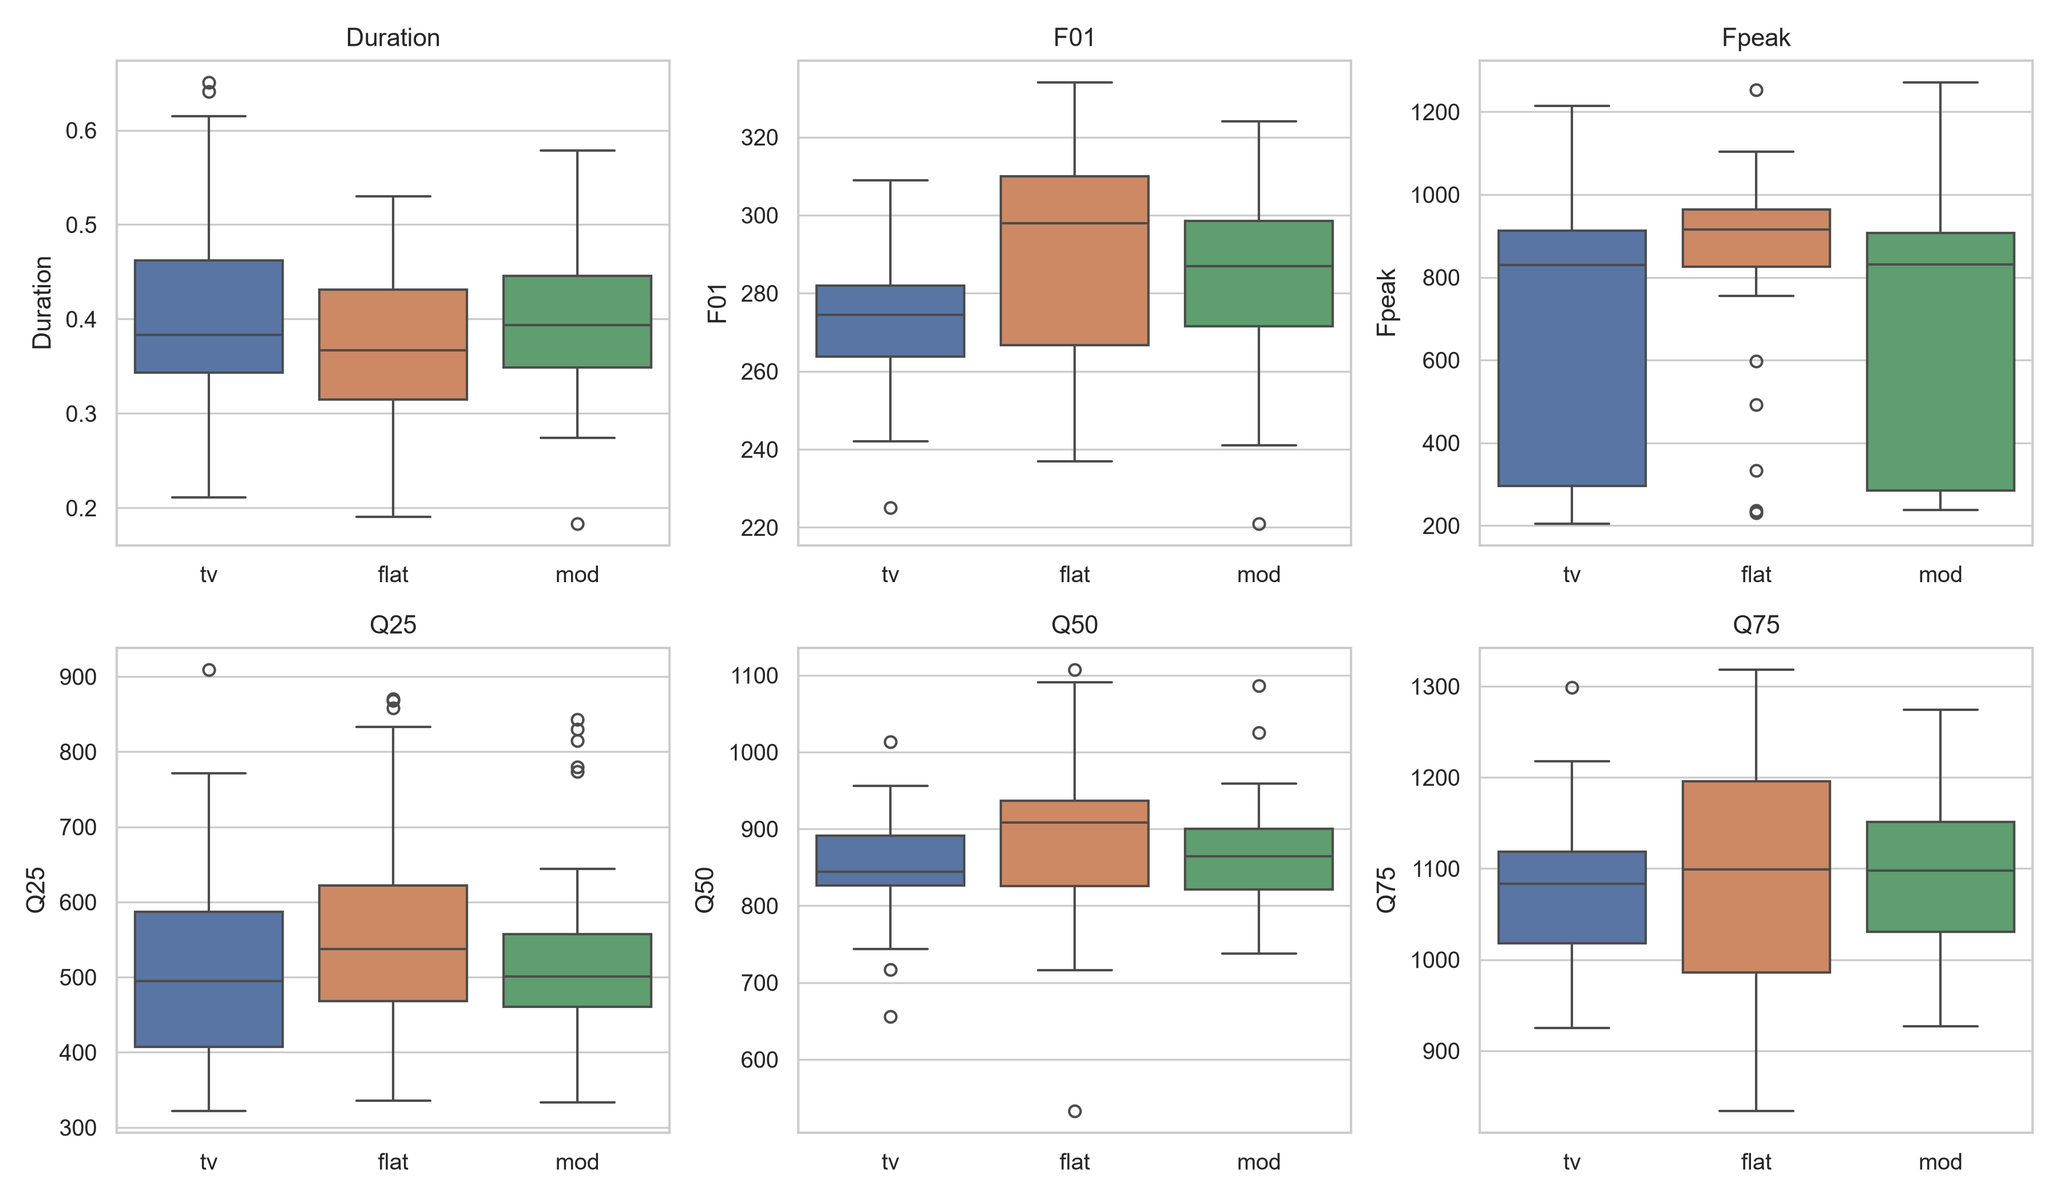
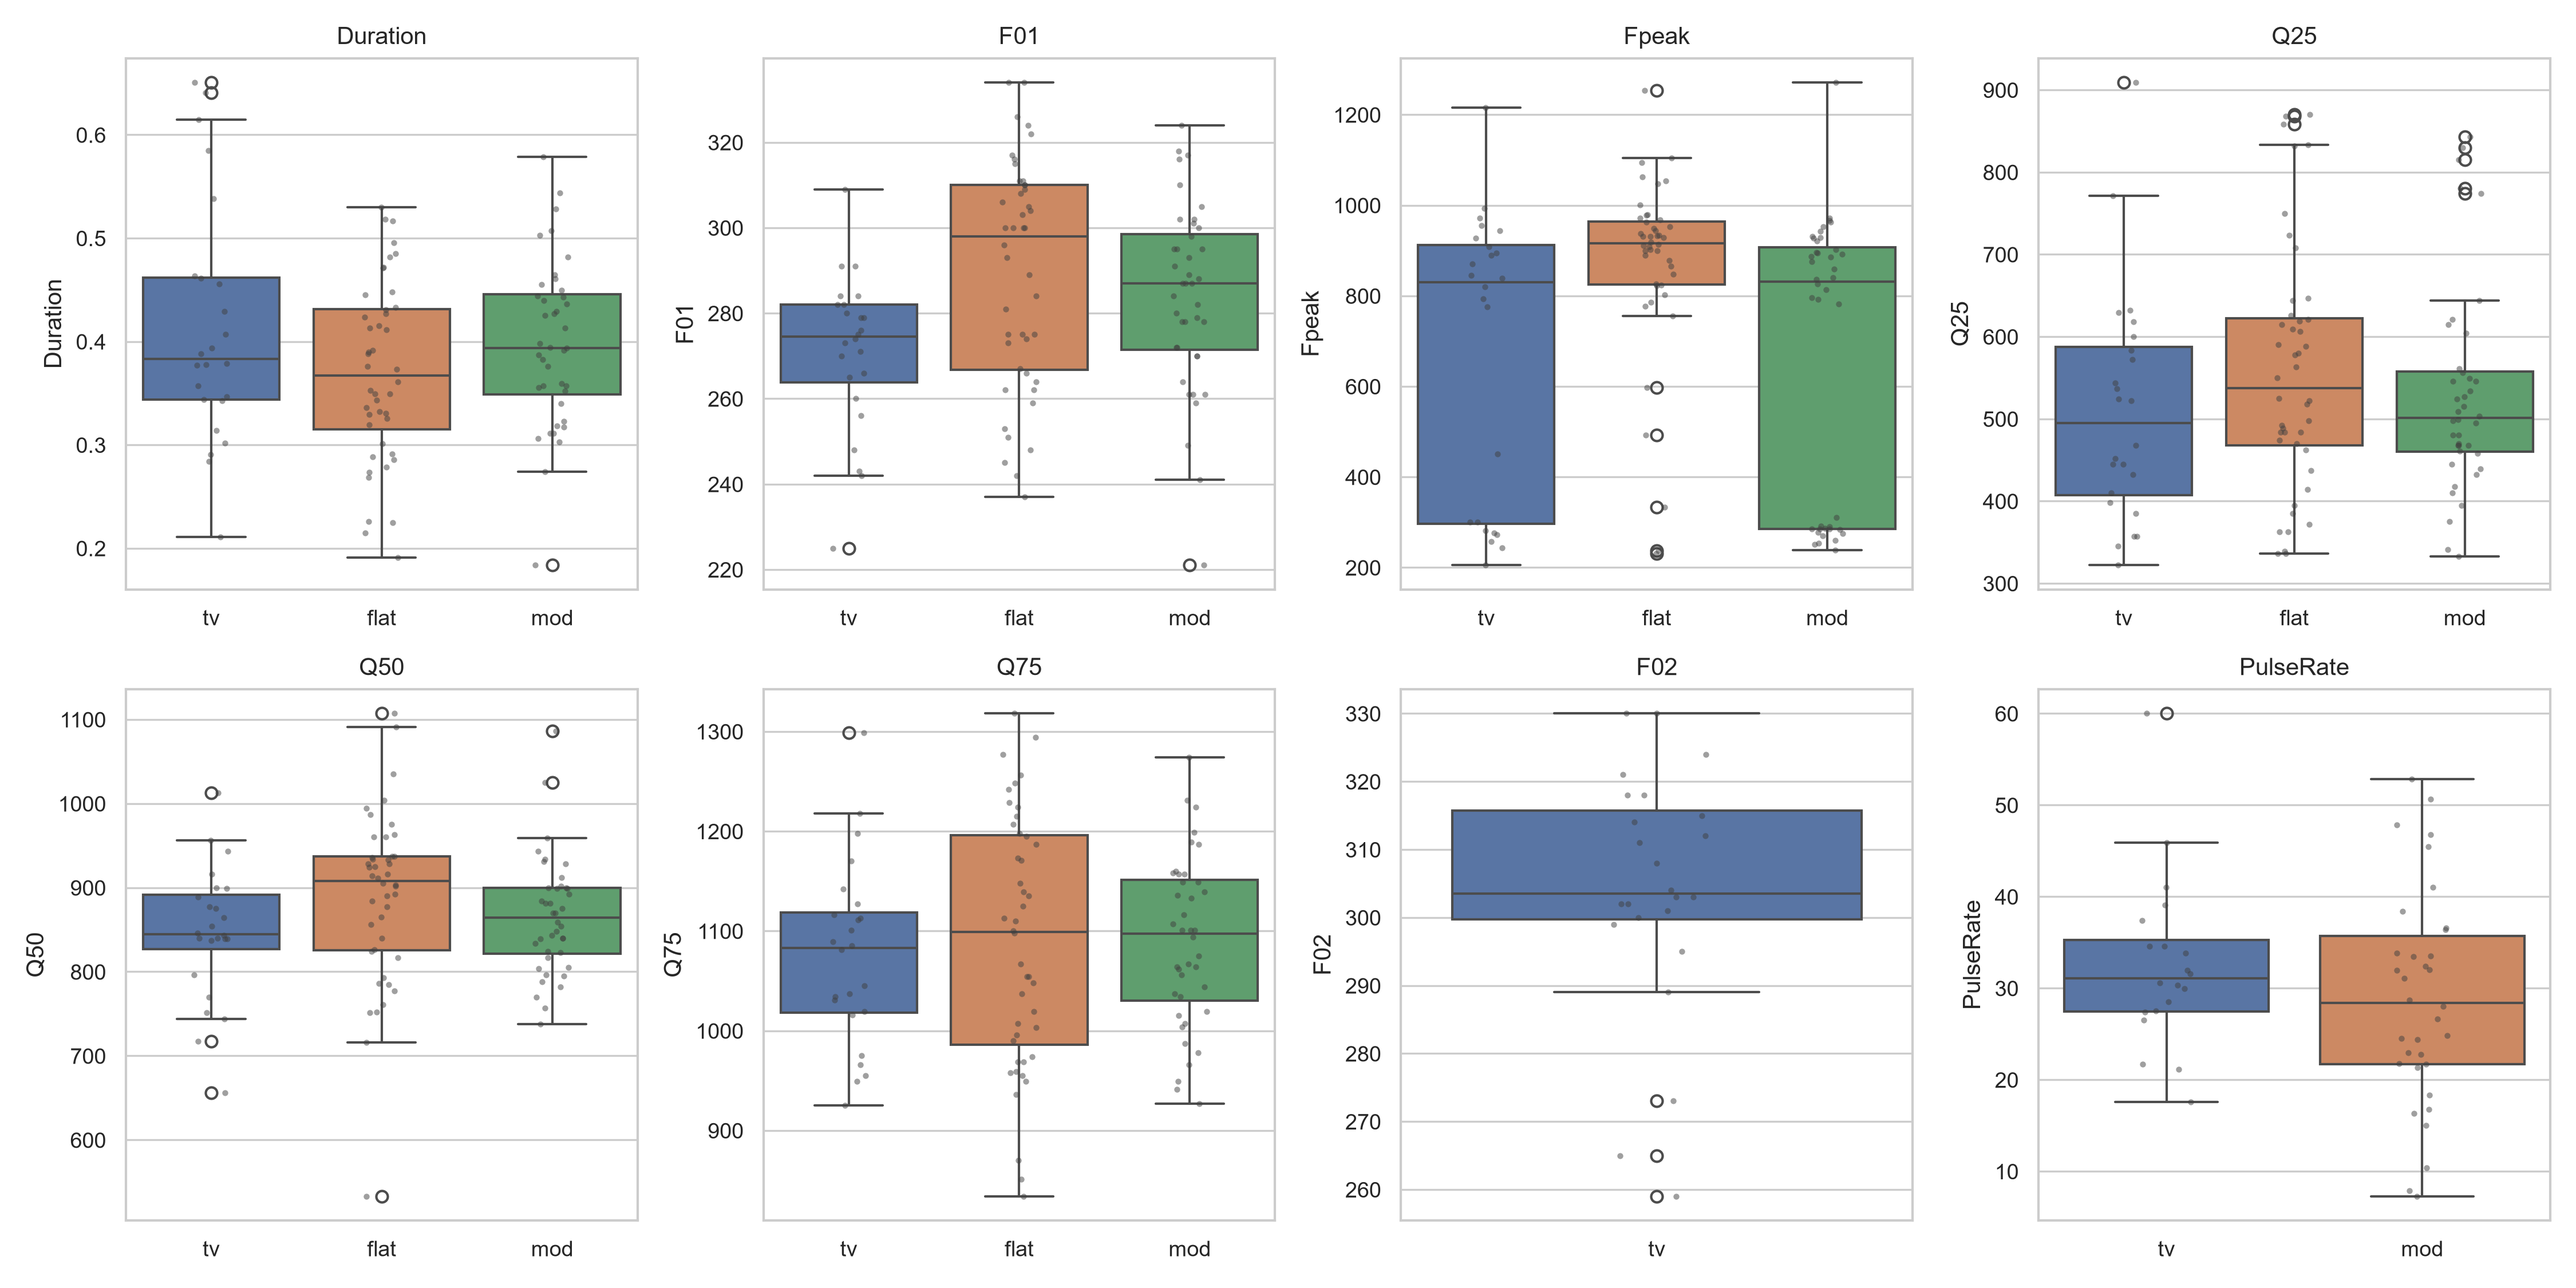
feat(q1): add KS test, PulseRate test, Track B classifier, PCA biplot and confusion matrices

diff --git a/src/q1_acoustics_classification.py b/src/q1_acoustics_classification.py
@@ -7,9 +7,11 @@ import numpy as np
 import pandas as pd
 import seaborn as sns
 from scipy import stats
-from sklearn.ensemble import RandomForestClassifier
+from sklearn.decomposition import PCA
+from sklearn.ensemble import HistGradientBoostingClassifier, RandomForestClassifier
 from sklearn.linear_model import LogisticRegression
-from sklearn.model_selection import StratifiedKFold, cross_validate
+from sklearn.metrics import ConfusionMatrixDisplay, confusion_matrix
+from sklearn.model_selection import StratifiedKFold, cross_val_predict, cross_validate
 from sklearn.pipeline import make_pipeline
 from sklearn.preprocessing import StandardScaler
 from sklearn.svm import SVC
@@ -41,78 +43,170 @@ def compute_descriptive_stats(df: pd.DataFrame) -> pd.DataFrame:
     return pd.DataFrame(rows)
 
 
-def run_nonparametric_tests(df: pd.DataFrame) -> pd.DataFrame:
-    """Run Kruskal-Wallis H tests and Holm-corrected pairwise Mann-Whitney U tests."""
+def run_nonparametric_tests(df: pd.DataFrame) -> tuple[pd.DataFrame, pd.DataFrame]:
+    """Run Kruskal-Wallis H, Holm-corrected Mann-Whitney U, and Holm-corrected KS tests."""
     call_types = sorted(df["CallType"].unique())
+    pairs = list(combinations(call_types, 2))
     rows = []
+
     for col in COMMON_FEATURES:
         groups = [df.loc[df["CallType"] == ct, col].dropna().values for ct in call_types]
         kw_stat, kw_p = stats.kruskal(*groups)
 
-        pairs = list(combinations(call_types, 2))
-        raw_pvals = []
-        u_stats = []
+        mwu_raw, ks_raw = [], []
         for c1, c2 in pairs:
             g1 = df.loc[df["CallType"] == c1, col].dropna().values
             g2 = df.loc[df["CallType"] == c2, col].dropna().values
-            u_stat, p_val = stats.mannwhitneyu(g1, g2, alternative="two-sided")
-            u_stats.append(u_stat)
-            raw_pvals.append(p_val)
+            _, p_mwu = stats.mannwhitneyu(g1, g2, alternative="two-sided")
+            _, p_ks = stats.ks_2samp(g1, g2)
+            mwu_raw.append(p_mwu)
+            ks_raw.append(p_ks)
 
-        _, adj_pvals, _, _ = multipletests(raw_pvals, method="holm")
+        _, mwu_adj, _, _ = multipletests(mwu_raw, method="holm")
+        _, ks_adj, _, _ = multipletests(ks_raw, method="holm")
+
         row = {"Feature": col, "KW_H": kw_stat, "KW_p": kw_p}
-        for (c1, c2), adj_p in zip(pairs, adj_pvals):
-            row[f"MWU_{c1}_vs_{c2}_holm_p"] = adj_p
+        for (c1, c2), p_m, p_k in zip(pairs, mwu_adj, ks_adj):
+            row[f"MWU_{c1}_vs_{c2}_holm_p"] = p_m
+            row[f"KS_{c1}_vs_{c2}_holm_p"] = p_k
         rows.append(row)
-    return pd.DataFrame(rows)
+
+    # Also test PulseRate between mod and tv (flat has N=0)
+    pr_mod = df.loc[df["CallType"] == "mod", "PulseRate"].dropna().values
+    pr_tv = df.loc[df["CallType"] == "tv", "PulseRate"].dropna().values
+    u_pr, p_pr_mwu = stats.mannwhitneyu(pr_mod, pr_tv, alternative="two-sided")
+    d_pr, p_pr_ks = stats.ks_2samp(pr_mod, pr_tv)
+    pr_df = pd.DataFrame(
+        [
+            {
+                "Feature": "PulseRate (mod vs tv)",
+                "N_mod": len(pr_mod),
+                "N_tv": len(pr_tv),
+                "MWU_U": u_pr,
+                "MWU_p": p_pr_mwu,
+                "KS_D": d_pr,
+                "KS_p": p_pr_ks,
+            }
+        ]
+    )
+    return pd.DataFrame(rows), pr_df
 
 
-def evaluate_classifiers(df: pd.DataFrame) -> tuple[pd.DataFrame, pd.DataFrame]:
-    """Compare classifiers on the 6 common features via Stratified 5-Fold CV."""
-    X = df[COMMON_FEATURES].values
-    y = df["CallType"].values
+def evaluate_classifiers(df: pd.DataFrame) -> tuple[pd.DataFrame, pd.DataFrame, dict]:
+    """Compare Track A (6 common features) and Track B (structural + all features) via 5-fold CV."""
     cv = StratifiedKFold(n_splits=5, shuffle=True, random_state=RANDOM_SEED)
+    y = df["CallType"].values
 
-    models = {
-        "LogisticRegression": make_pipeline(
+    # Track A: 6 common features
+    X_common = df[COMMON_FEATURES].values
+    track_a_models = {
+        "TrackA_LogReg_Common6": make_pipeline(
             StandardScaler(), LogisticRegression(max_iter=1000, random_state=RANDOM_SEED)
         ),
-        "SVM_RBF": make_pipeline(StandardScaler(), SVC(kernel="rbf", random_state=RANDOM_SEED)),
-        "RandomForest": RandomForestClassifier(n_estimators=300, random_state=RANDOM_SEED),
+        "TrackA_SVM_RBF_Common6": make_pipeline(
+            StandardScaler(), SVC(kernel="rbf", random_state=RANDOM_SEED)
+        ),
+        "TrackA_RF_Common6": RandomForestClassifier(n_estimators=300, random_state=RANDOM_SEED),
+    }
+
+    # Track B: include structural missingness indicators + native-NaN HistGB
+    df_b = df[ALL_FEATURES].copy()
+    df_b["has_F02"] = df["F02"].notna().astype(int)
+    df_b["has_PulseRate"] = df["PulseRate"].notna().astype(int)
+    X_full = df_b.values
+
+    track_b_models = {
+        "TrackB_HistGB_AllFeatures": HistGradientBoostingClassifier(
+            max_depth=4, random_state=RANDOM_SEED
+        ),
     }
 
     results = []
-    for name, model in models.items():
-        scores = cross_validate(
-            model, X, y, cv=cv, scoring=["accuracy", "f1_macro"], n_jobs=-1
-        )
+    oof_preds = {}
+
+    for name, model in track_a_models.items():
+        scores = cross_validate(model, X_common, y, cv=cv, scoring=["accuracy", "f1_macro"], n_jobs=-1)
         results.append(
             {
                 "Model": name,
+                "FeatureSet": "Common6",
                 "CV_Accuracy_Mean": scores["test_accuracy"].mean(),
                 "CV_Accuracy_Std": scores["test_accuracy"].std(),
                 "CV_MacroF1_Mean": scores["test_f1_macro"].mean(),
                 "CV_MacroF1_Std": scores["test_f1_macro"].std(),
             }
         )
+        if name == "TrackA_RF_Common6":
+            oof_preds[name] = cross_val_predict(model, X_common, y, cv=cv, n_jobs=-1)
 
-    rf = models["RandomForest"].fit(X, y)
+    for name, model in track_b_models.items():
+        scores = cross_validate(model, X_full, y, cv=cv, scoring=["accuracy", "f1_macro"], n_jobs=-1)
+        results.append(
+            {
+                "Model": name,
+                "FeatureSet": "All8+Indicators",
+                "CV_Accuracy_Mean": scores["test_accuracy"].mean(),
+                "CV_Accuracy_Std": scores["test_accuracy"].std(),
+                "CV_MacroF1_Mean": scores["test_f1_macro"].mean(),
+                "CV_MacroF1_Std": scores["test_f1_macro"].std(),
+            }
+        )
+        oof_preds[name] = cross_val_predict(model, X_full, y, cv=cv, n_jobs=-1)
+
+    rf = track_a_models["TrackA_RF_Common6"].fit(X_common, y)
     importances = pd.DataFrame(
         {"Feature": COMMON_FEATURES, "RF_Importance": rf.feature_importances_}
     ).sort_values("RF_Importance", ascending=False)
-    return pd.DataFrame(results), importances
+    return pd.DataFrame(results), importances, oof_preds
 
 
-def plot_feature_distributions(df: pd.DataFrame) -> None:
-    """Save a 2x3 boxplot panel for the 6 common acoustic features."""
-    sns.set_theme(style="whitegrid", context="paper", font_scale=1.1)
-    fig, axes = plt.subplots(2, 3, figsize=(12, 7))
-    for ax, col in zip(axes.flat, COMMON_FEATURES):
-        sns.boxplot(data=df, x="CallType", y=col, hue="CallType", legend=False, ax=ax)
+def plot_all_visualizations(df: pd.DataFrame, oof_preds: dict) -> None:
+    """Generate 8-feature boxplots, PCA biplot, and confusion matrices."""
+    sns.set_theme(style="whitegrid", context="paper", font_scale=1.05)
+
+    # 1. 2x4 distributions for all 8 acoustic measures
+    fig, axes = plt.subplots(2, 4, figsize=(15, 7.5))
+    for ax, col in zip(axes.flat, ALL_FEATURES):
+        sub = df[["CallType", col]].dropna()
+        sns.boxplot(data=sub, x="CallType", y=col, hue="CallType", legend=False, ax=ax)
+        sns.stripplot(data=sub, x="CallType", y=col, color="0.25", size=2.5, alpha=0.5, ax=ax)
         ax.set_title(col)
         ax.set_xlabel("")
     plt.tight_layout()
     fig.savefig(FIGURES_DIR / "q1_feature_boxplot.png", dpi=300)
+    plt.close(fig)
+
+    # 2. PCA biplot on standardized 6 common features
+    X_std = StandardScaler().fit_transform(df[COMMON_FEATURES].values)
+    pca = PCA(n_components=2, random_state=RANDOM_SEED)
+    coords = pca.fit_transform(X_std)
+    pca_df = pd.DataFrame({"PC1": coords[:, 0], "PC2": coords[:, 1], "CallType": df["CallType"]})
+
+    fig, ax = plt.subplots(figsize=(7.5, 6))
+    sns.scatterplot(data=pca_df, x="PC1", y="PC2", hue="CallType", style="CallType", s=55, alpha=0.85, ax=ax)
+    scale = 2.8
+    for i, feat in enumerate(COMMON_FEATURES):
+        vx, vy = pca.components_[0, i] * scale, pca.components_[1, i] * scale
+        ax.arrow(0, 0, vx, vy, color="dimgray", alpha=0.75, head_width=0.08, length_includes_head=True)
+        ax.text(vx * 1.12, vy * 1.12, feat, fontsize=9, color="black", ha="center", va="center")
+    ax.set_xlabel(f"PC1 ({pca.explained_variance_ratio_[0]*100:.1f}%)")
+    ax.set_ylabel(f"PC2 ({pca.explained_variance_ratio_[1]*100:.1f}%)")
+    ax.set_title("PCA Biplot of 6 Common Acoustic Features")
+    plt.tight_layout()
+    fig.savefig(FIGURES_DIR / "q1_pca_biplot.png", dpi=300)
+    plt.close(fig)
+
+    # 3. Confusion matrices (Track A vs Track B)
+    labels = ["flat", "mod", "tv"]
+    y_true = df["CallType"].values
+    fig, axes = plt.subplots(1, 2, figsize=(10.5, 4.3))
+    for ax, (name, y_pred) in zip(axes, oof_preds.items()):
+        cm = confusion_matrix(y_true, y_pred, labels=labels)
+        disp = ConfusionMatrixDisplay(confusion_matrix=cm, display_labels=labels)
+        disp.plot(ax=ax, cmap="Blues", colorbar=False)
+        ax.set_title(name)
+    plt.tight_layout()
+    fig.savefig(FIGURES_DIR / "q1_confusion_matrices.png", dpi=300)
     plt.close(fig)
 
 
@@ -121,17 +215,20 @@ def main() -> None:
     df = pd.read_csv(data_dir / "Data01_AfricanPenguins_seasurface_calls_acoustics.csv")
 
     desc_df = compute_descriptive_stats(df)
-    tests_df = run_nonparametric_tests(df)
-    cv_df, imp_df = evaluate_classifiers(df)
+    tests_df, pr_df = run_nonparametric_tests(df)
+    cv_df, imp_df, oof_preds = evaluate_classifiers(df)
 
     desc_df.to_csv(TABLES_DIR / "q1_descriptive_stats.csv", index=False)
     tests_df.to_csv(TABLES_DIR / "q1_nonparametric_tests.csv", index=False)
+    pr_df.to_csv(TABLES_DIR / "q1_pulserate_tests.csv", index=False)
     cv_df.to_csv(TABLES_DIR / "q1_classifier_cv.csv", index=False)
     imp_df.to_csv(TABLES_DIR / "q1_rf_importances.csv", index=False)
-    plot_feature_distributions(df)
+    plot_all_visualizations(df, oof_preds)
 
-    print("Q1 outputs saved to:", TABLES_DIR, "and", FIGURES_DIR)
+    print("=== Classifier 5-Fold CV ===")
     print(cv_df.to_string(index=False))
+    print("\n=== PulseRate (mod vs tv) ===")
+    print(pr_df.to_string(index=False))
 
 
 if __name__ == "__main__":
